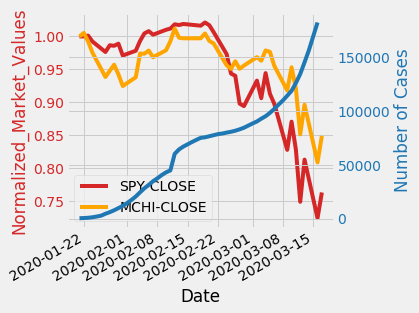
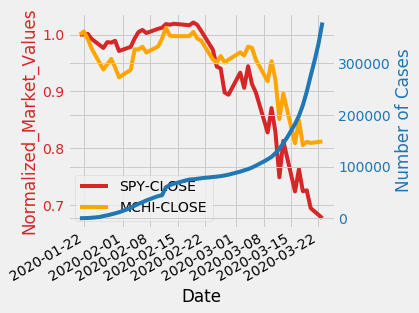
updates
updated number of cases and refreshed stock data

diff --git a/Market_Relationship.py b/Market_Relationship.py
@@ -56,7 +56,9 @@ def virus_data():
             '2020-03-06': 102049, '2020-03-07': 106099, '2020-03-08': 109991,
             '2020-03-09': 114381, '2020-03-10': 118948, '2020-03-11': 126214,
             '2020-03-12': 134576, '2020-03-13': 145483, '2020-03-14':156653,
-            '2020-03-15': 169593, '2020-03-16': 182490}
+            '2020-03-15': 169593, '2020-03-16': 182490, '2020-03-17': 198238,
+            '2020-03-18': 218822, '2020-03-19': 244933, '2020-03-20': 275597,
+            '2020-03-21': 305036, '2020-03-22': 337489, '2020-03-23': 378860}
 
     date_index = virus_data.keys()
     date_index = [datetime.strptime(x, '%Y-%m-%d') for x in date_index]
